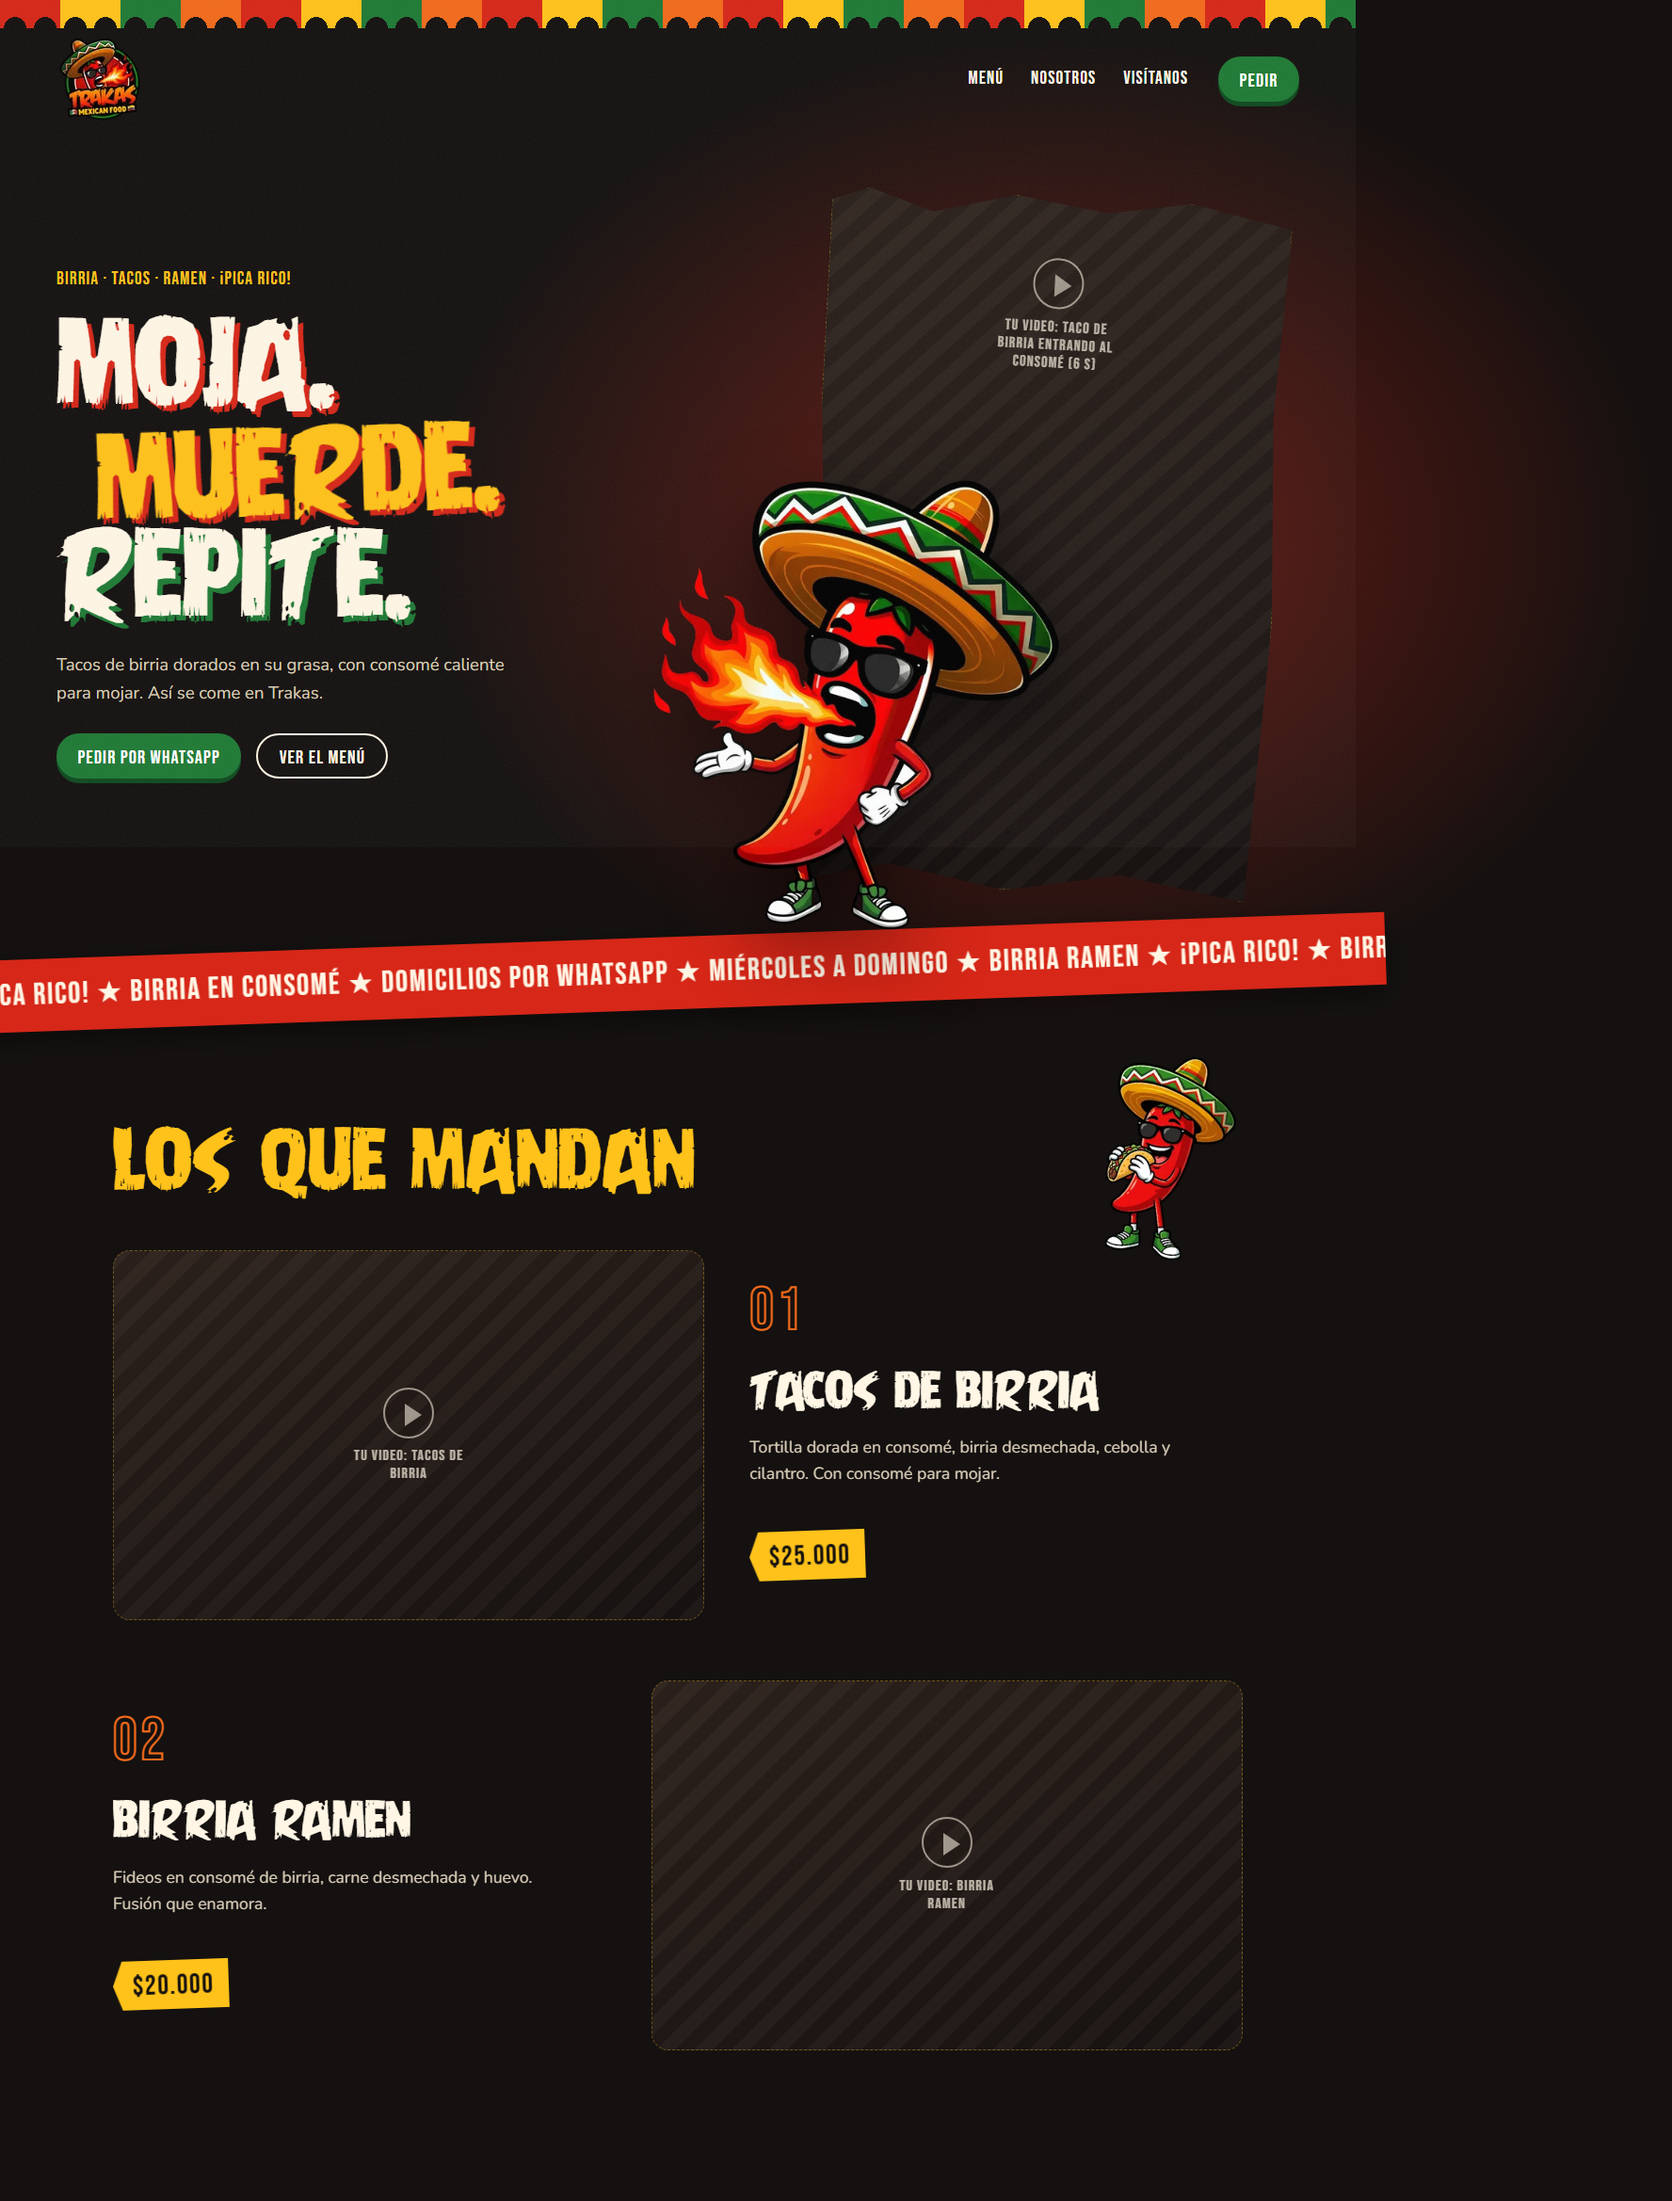
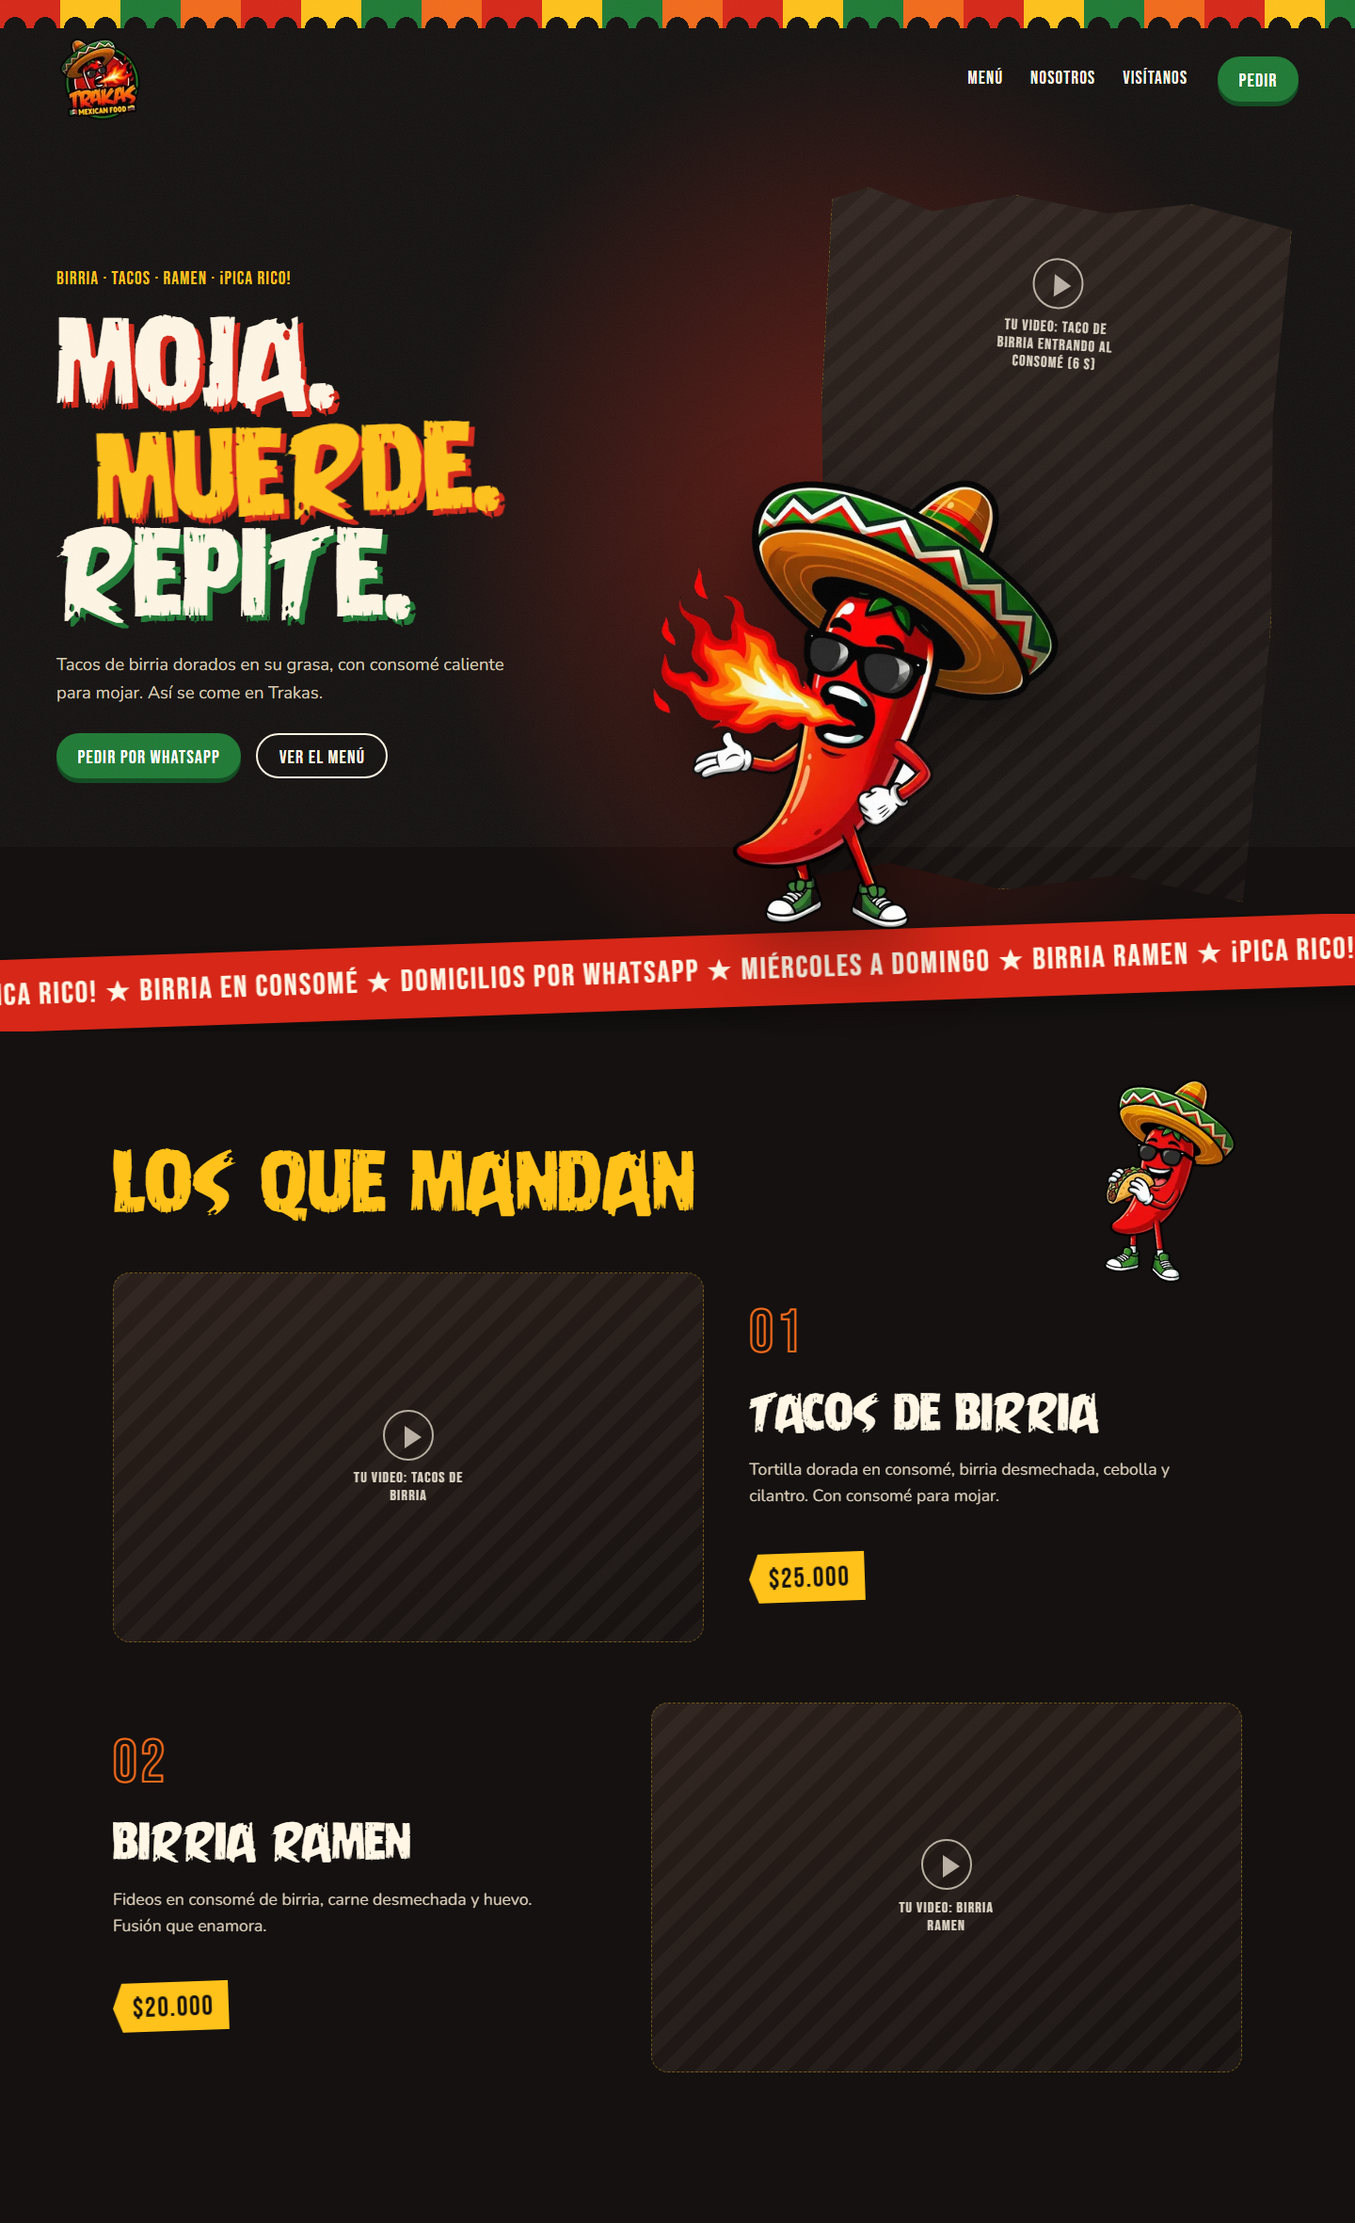
spike: ajustes del equipo en conceptos; ffmpeg se detecta solo (winget)

diff --git a/src/styles/global.css b/src/styles/global.css
@@ -4,7 +4,7 @@
 @import "./tokens.css";
 
 *, *::before, *::after { box-sizing: border-box; }
-html { scroll-behavior: smooth; -webkit-text-size-adjust: 100%; }
+html { scroll-behavior: smooth; -webkit-text-size-adjust: 100%; overflow-x: clip; }
 body {
   margin: 0;
   background: var(--comal);
